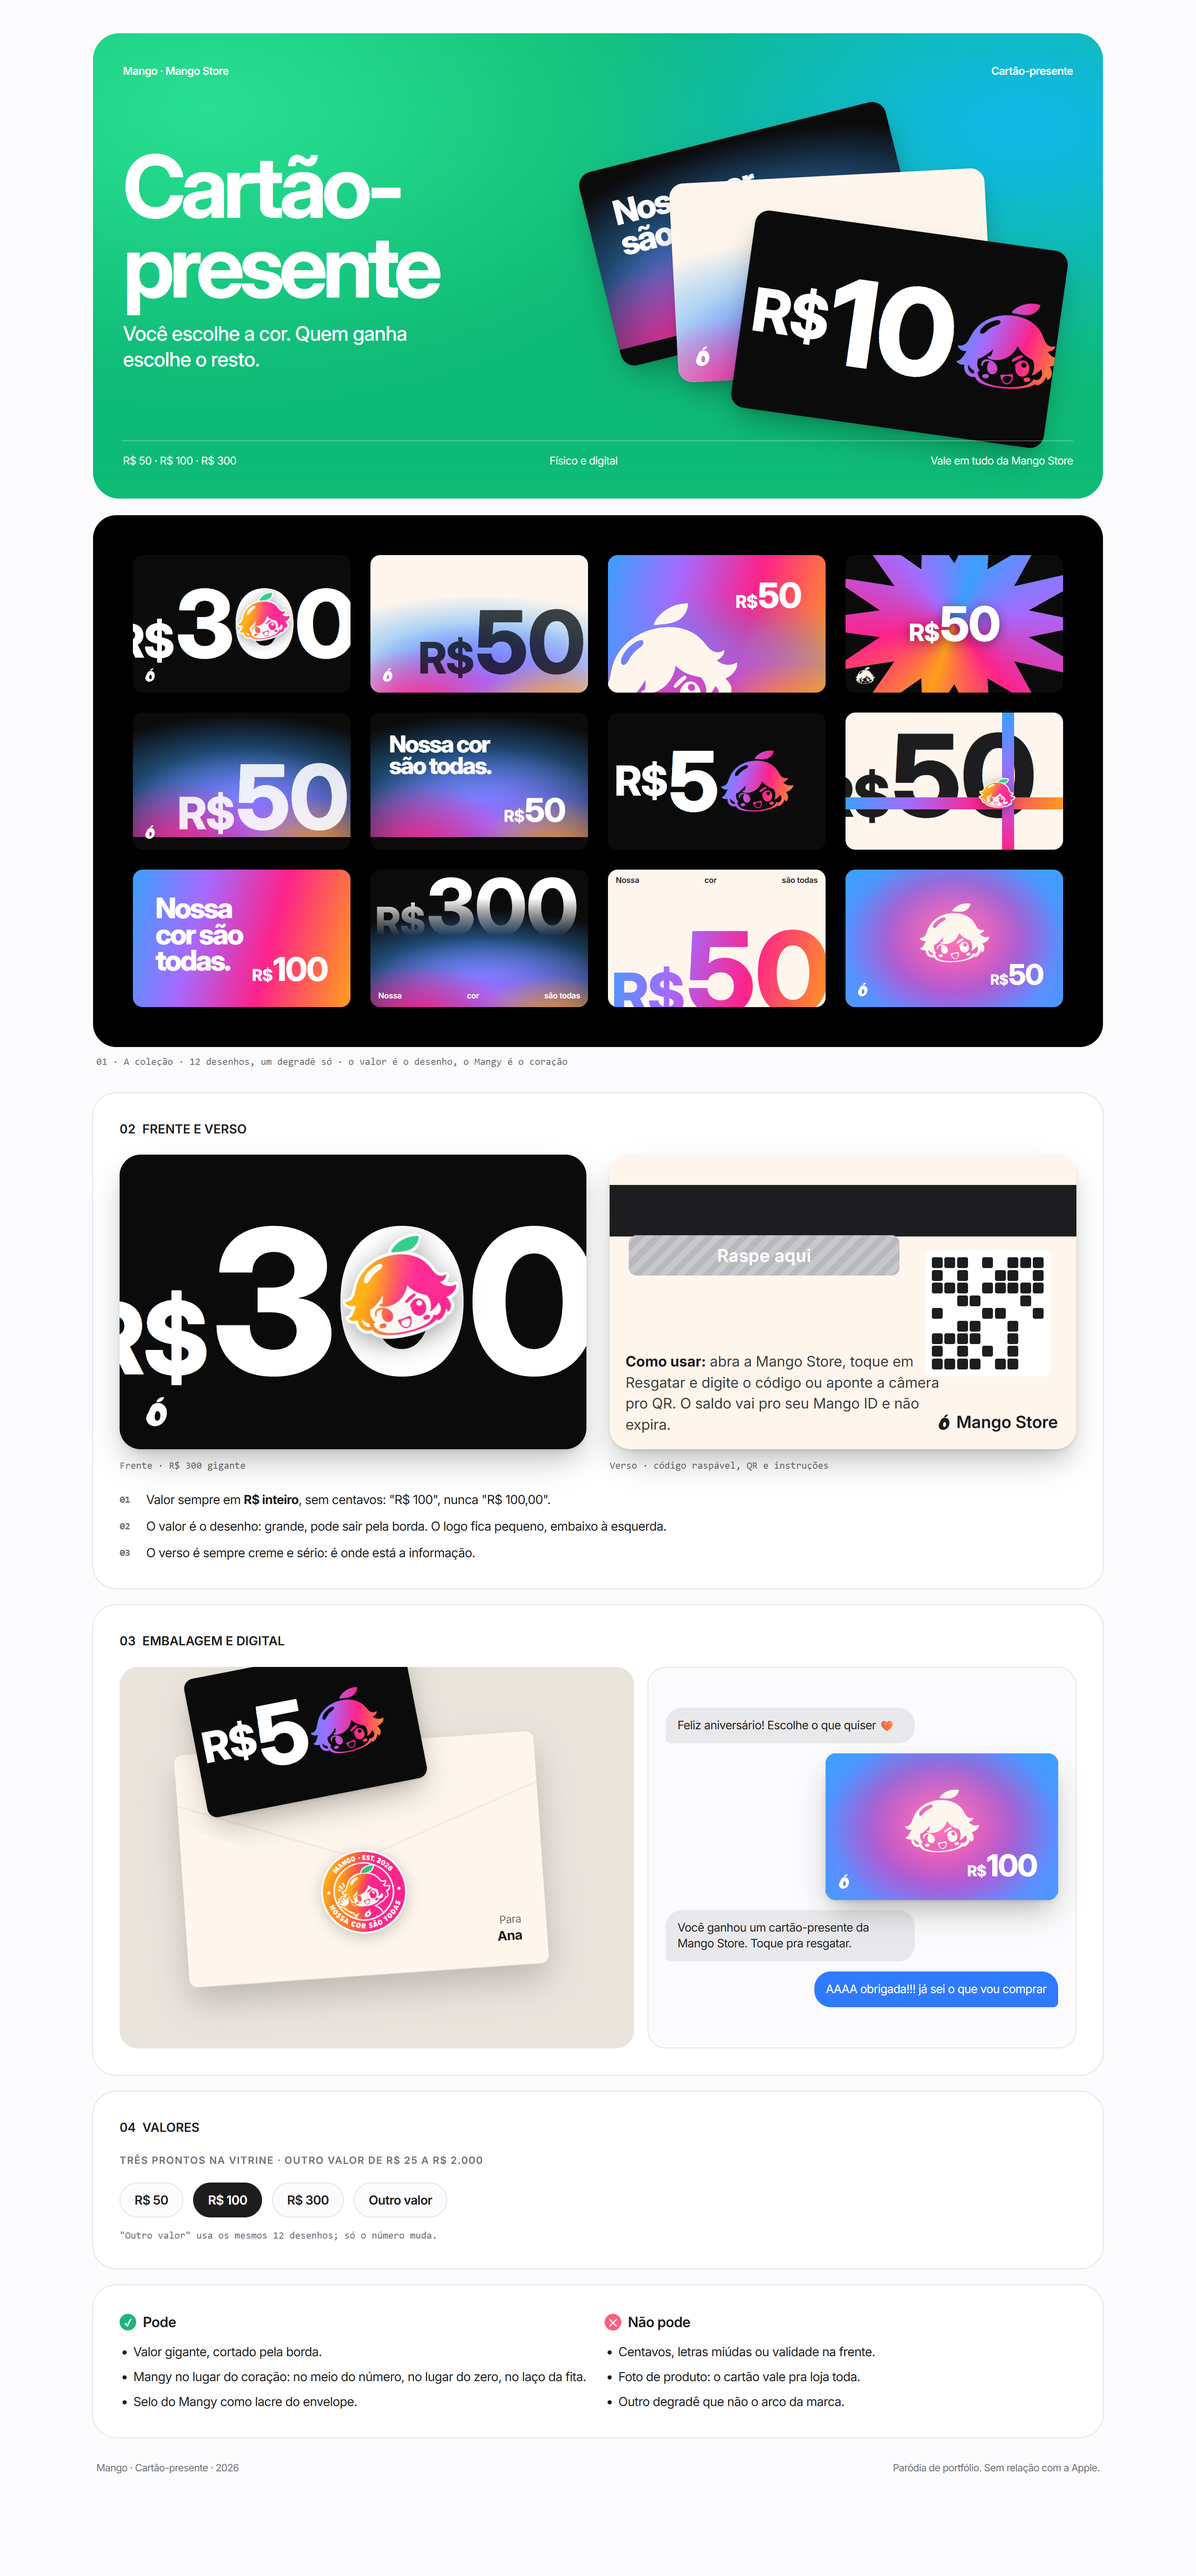
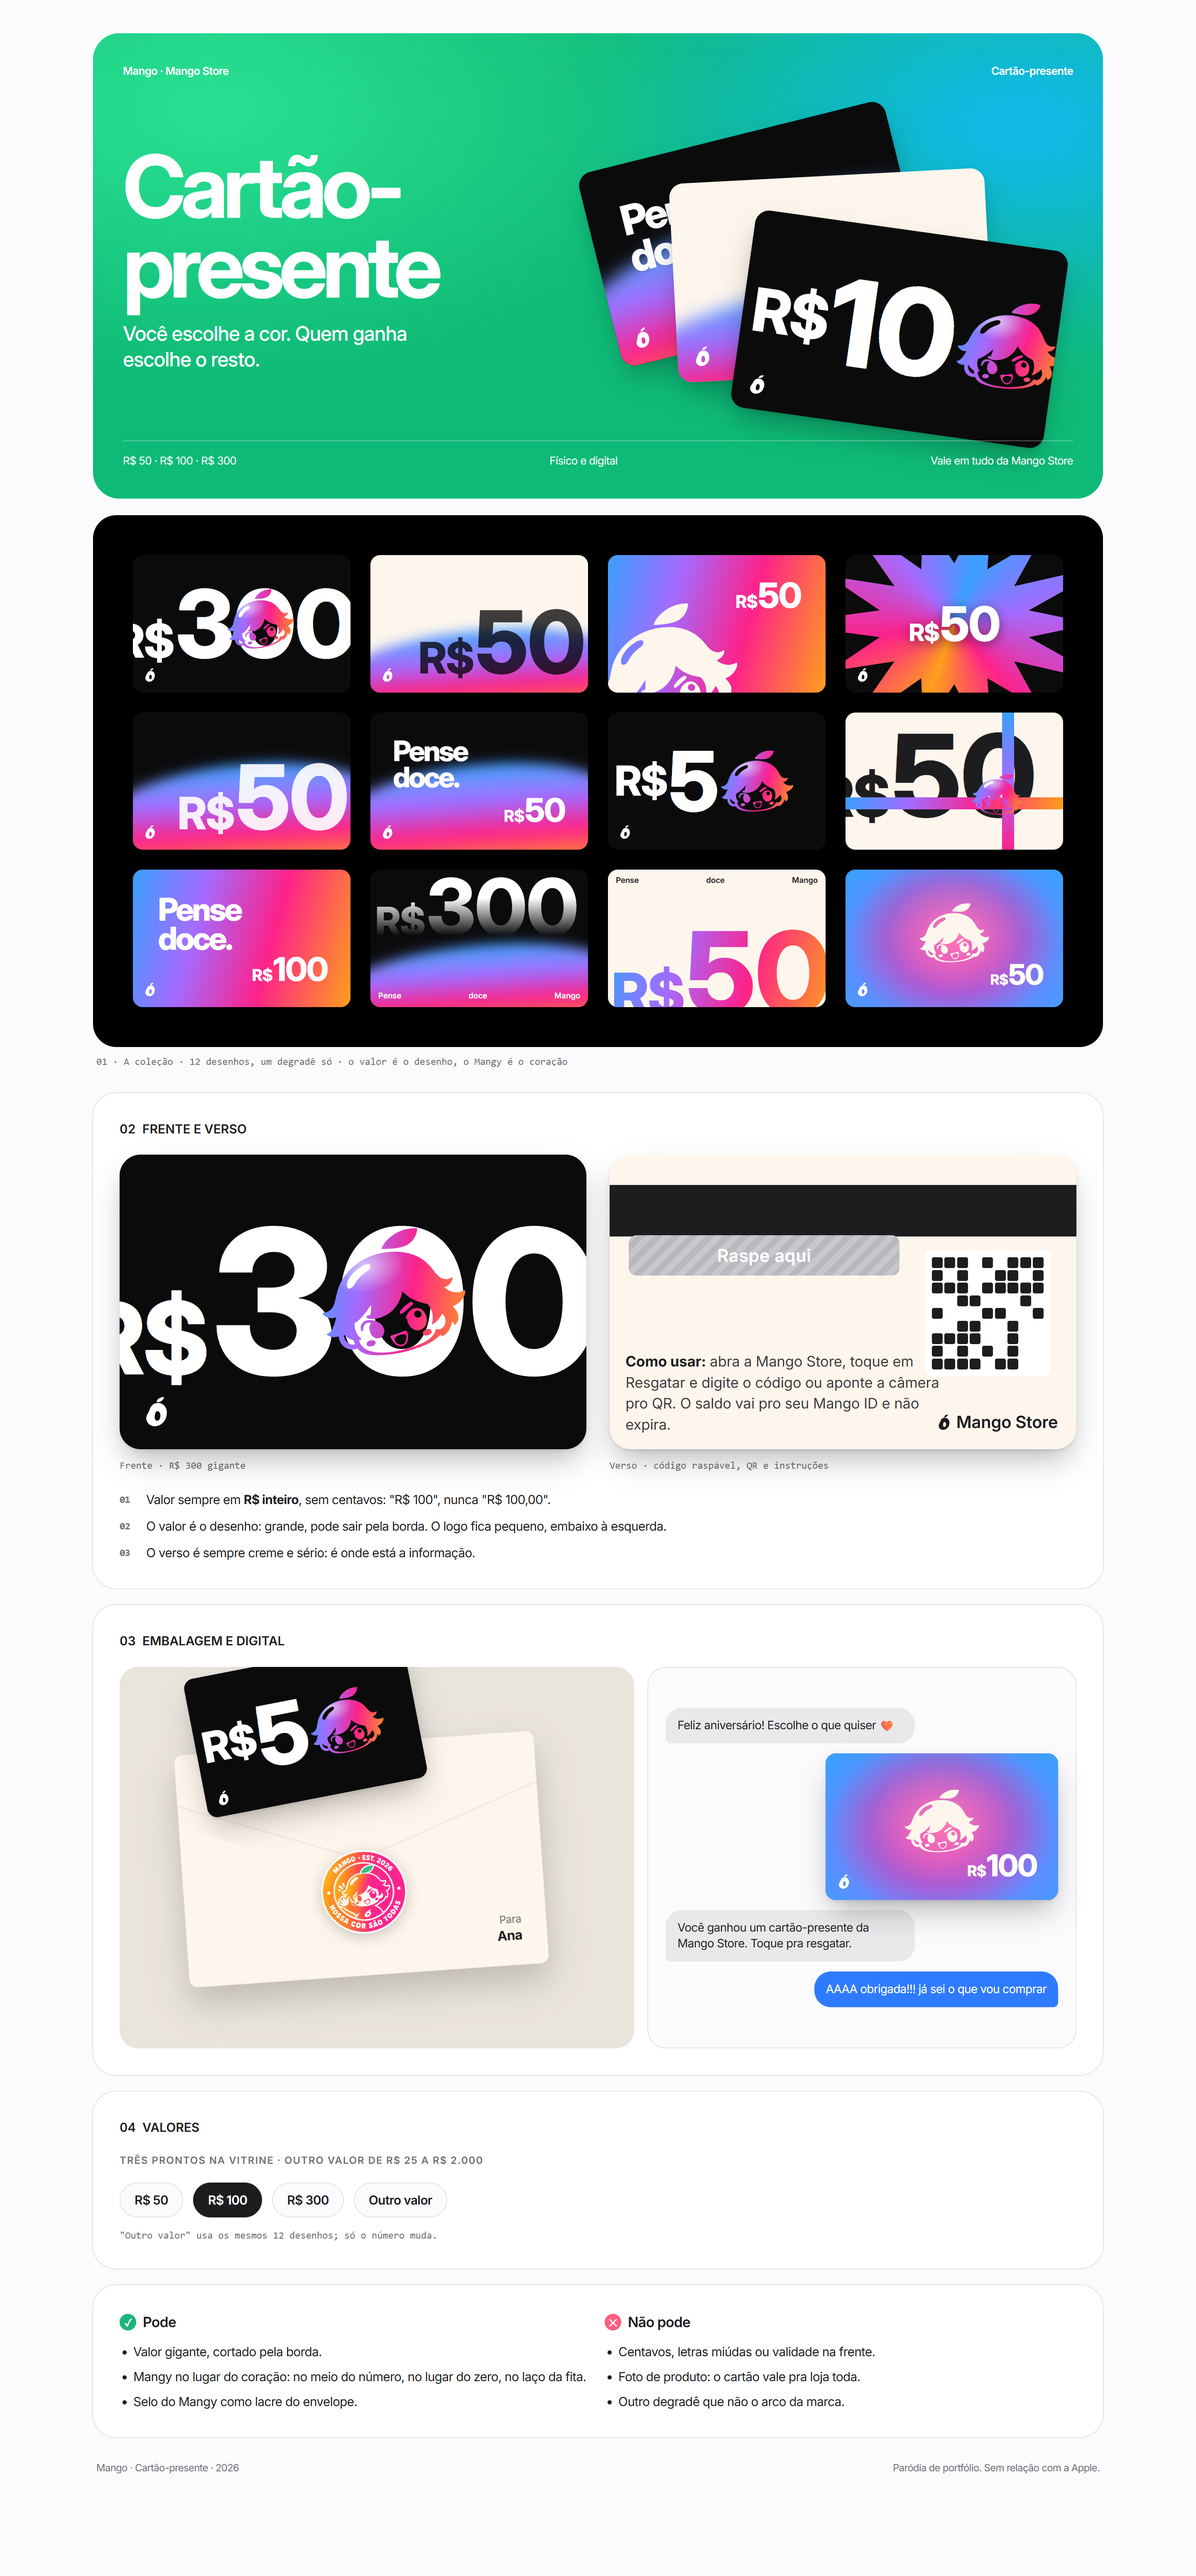
feat(marca): cartões com o slogan 'Pense doce.', onda limpa e Mangy com brilho; slogan registrado no MARCA.md

diff --git a/escolhas/marca/cartoes.html b/escolhas/marca/cartoes.html
@@ -24,13 +24,15 @@
   --onda:radial-gradient(60% 55% at 22% 108%,#fd228a,transparent 72%),radial-gradient(55% 50% at 85% 112%,#ff9f1c,transparent 70%),
          radial-gradient(90% 60% at 55% 92%,#a46bff,transparent 72%),radial-gradient(120% 70% at 50% 78%,#3aa0ff,transparent 70%);
 }
-.onda{inset:0;background:var(--onda)}
-.onda.alta{transform:translateY(-22%) scaleY(1.25)}
+.onda{left:-15%;right:-15%;top:38%;bottom:-30%;border-radius:55% 45% 0 0/42% 34% 0 0;transform:rotate(-4deg);filter:blur(.55em);
+  background:linear-gradient(180deg,#3aa0ff 0%,#7b8cff 16%,#a46bff 30%,#fd228a 55%,#ff9f1c 85%)}
+.onda.alta{top:22%}
+.onda.baixa{top:55%}
 .marquinha{left:1em;bottom:.95em;width:1.15em;aspect-ratio:100/116;background:currentColor;-webkit-mask:url(/mango.svg) center/contain no-repeat;mask:url(/mango.svg) center/contain no-repeat}
 .v{white-space:nowrap}
 .v small{font-size:.5em;letter-spacing:-.03em;margin-right:.04em}
 .preenche{background:var(--arco);-webkit-background-clip:text;background-clip:text;color:transparent}
-.cabeca{aspect-ratio:466/394;background:var(--arco);-webkit-mask:url(mascote/mono-cabeca.webp) center/contain no-repeat;mask:url(mascote/mono-cabeca.webp) center/contain no-repeat}
+.cabeca{aspect-ratio:466/394;background:radial-gradient(38% 30% at 34% 26%,#fff9,transparent 70%),var(--arco);-webkit-mask:url(mascote/mono-cabeca.webp) center/contain no-repeat;mask:url(mascote/mono-cabeca.webp) center/contain no-repeat}
 .cabeca.creme{background:#fef6ec}
 .adesivo-c{filter:drop-shadow(0 .25em .5em rgba(0,0,0,.35))}
 .frase{font-size:2.15em;line-height:.92;letter-spacing:-.055em}
@@ -212,29 +214,29 @@ const head = (cls, st) => `<span class="cabeca ${cls}" style="${st}"></span>`;
 const stk = st => `<img class="adesivo-c" src="mascote/expressions-1.webp" alt="" style="${st}">`;
 const DESENHOS = [
   // 1 valor gigante no preto, Mangy no meio dos números
-  ['', v => `<span class="v" style="left:-.2em;top:50%;transform:translateY(-50%);font-size:8.6em">${RS(v)}</span>${stk('left:9.4em;top:3.4em;width:5.2em;transform:rotate(-8deg)')}<span class="marquinha"></span>`],
+  ['', v => `<span class="v" style="left:-.2em;top:50%;transform:translateY(-50%);font-size:8.6em">${RS(v)}</span>${head('', 'left:8.6em;top:3.3em;width:6.2em;transform:rotate(-8deg);filter:drop-shadow(0 .3em .6em #0008)')}<span class="marquinha"></span>`],
   // 2 creme com a onda subindo por trás do número
-  ['creme', v => `<span class="onda"></span><span class="v" style="left:.55em;top:.6em;font-size:8em;color:rgba(29,29,31,.82);mix-blend-mode:multiply">${RS(v)}</span><span class="marquinha" style="color:#fff"></span>`],
+  ['creme', v => `<span class="onda baixa"></span><span class="v" style="left:.55em;top:.6em;font-size:8em;color:rgba(29,29,31,.85);mix-blend-mode:multiply">${RS(v)}</span><span class="marquinha" style="color:#fff"></span>`],
   // 3 cabeça gigante saindo pelo canto
-  ['cheio', v => `<span class="onda" style="opacity:.6"></span>${head('creme', 'left:-1.2em;bottom:-3.2em;width:13em;transform:rotate(-10deg)')}<span class="v" style="right:.7em;top:.75em;font-size:3.2em">${RS(v)}</span>`],
+  ['cheio', v => `${head('creme', 'left:-1.2em;bottom:-3.2em;width:13em;transform:rotate(-10deg);background:#fef6ec')}<span class="v" style="right:.7em;top:.75em;font-size:3.2em">${RS(v)}</span>`],
   // 4 explosão
-  ['', v => `<span class="explosao"></span><span class="v" style="left:50%;top:50%;transform:translate(-50%,-50%);font-size:4.4em;text-shadow:0 .05em .25em #0007">${RS(v)}</span>${head('creme', 'left:.9em;bottom:.8em;width:1.8em')}`],
+  ['', v => `<span class="explosao"></span><span class="v" style="left:50%;top:50%;transform:translate(-50%,-50%);font-size:4.4em;text-shadow:0 .05em .25em #0007">${RS(v)}</span><span class="marquinha"></span>`],
   // 5 número claro afundando na onda
-  ['', v => `<span class="onda alta"></span><span class="v" style="left:.5em;top:.55em;font-size:8.2em;color:rgba(255,255,255,.88)">${RS(v)}</span><span class="marquinha"></span>`],
+  ['', v => `<span class="onda"></span><span class="v" style="left:.5em;top:.55em;font-size:8.2em;color:rgba(255,255,255,.9)">${RS(v)}</span><span class="marquinha"></span>`],
   // 6 slogan + onda
-  ['', v => `<span class="onda alta"></span><span class="frase" style="left:.8em;top:.9em">Nossa cor<br>são todas.</span><span class="v" style="right:.7em;bottom:.8em;font-size:3em">${RS(v)}</span>`],
+  ['', v => `<span class="onda"></span><span class="frase" style="left:.8em;top:.9em;font-size:2.6em">Pense<br>doce.</span><span class="v" style="right:.7em;bottom:.8em;font-size:3em">${RS(v)}</span><span class="marquinha"></span>`],
   // 7 o Mangy é o zero
-  ['', v => `<span class="v" style="left:.08em;top:50%;transform:translateY(-50%);font-size:7.6em;display:flex;align-items:center">${RS(String(v).slice(0, -1))}<span class="cabeca" style="position:static;height:.74em;margin-left:.03em"></span></span>`],
+  ['', v => `<span class="v" style="left:.08em;top:50%;transform:translateY(-50%);font-size:7.6em;display:flex;align-items:center">${RS(String(v).slice(0, -1))}<span class="cabeca" style="position:static;height:.74em;margin-left:.03em"></span></span><span class="marquinha"></span>`],
   // 8 presente: fita cruzada, Mangy no laço
-  ['creme', v => `<span class="v" style="left:-.25em;top:.15em;font-size:10.5em">${RS(v)}</span><span class="fita-h"></span><span class="fita-v"></span>${stk('left:12.3em;top:5.9em;width:3.4em;transform:rotate(10deg)')}`],
+  ['creme', v => `<span class="v" style="left:-.25em;top:.15em;font-size:10.5em">${RS(v)}</span><span class="fita-h"></span><span class="fita-v"></span>${head('', 'left:11.7em;top:5.5em;width:4.6em;transform:rotate(10deg);filter:drop-shadow(0 .2em .4em #0005)')}`],
   // 9 slogan no degradê cheio
-  ['cheio', v => `<span class="frase" style="left:.8em;top:.9em;font-size:2.6em">Nossa<br>cor são<br>todas.</span><span class="v" style="right:.7em;bottom:.75em;font-size:3em">${RS(v)}</span>`],
-  // 10 número que some na onda + rodapé espaçado
-  ['', v => `<span class="onda"></span><span class="v" style="left:.06em;top:.08em;font-size:7.2em;background:linear-gradient(180deg,#fff 35%,#fff0 95%);-webkit-background-clip:text;background-clip:text;color:transparent">${RS(v)}</span><span class="espaco" style="top:auto;bottom:.9em"><span>Nossa</span><span>cor</span><span>são todas</span></span>`],
-  // 11 creme, palavras no topo, número em degradê saindo por baixo
-  ['creme', v => `<span class="espaco"><span>Nossa</span><span>cor</span><span>são todas</span></span><span class="v preenche" style="left:.03em;bottom:-.1em;font-size:10.5em">${RS(v)}</span>`],
+  ['cheio', v => `<span class="frase" style="left:.8em;top:.8em;font-size:2.9em">Pense<br>doce.</span><span class="v" style="right:.7em;bottom:.75em;font-size:3em">${RS(v)}</span><span class="marquinha"></span>`],
+  // 10 número que some na onda + slogan espaçado
+  ['', v => `<span class="onda baixa"></span><span class="v" style="left:.06em;top:.08em;font-size:7.2em;background:linear-gradient(180deg,#fff 35%,#fff0 95%);-webkit-background-clip:text;background-clip:text;color:transparent">${RS(v)}</span><span class="espaco" style="top:auto;bottom:.9em"><span>Pense</span><span>doce</span><span>Mango</span></span>`],
+  // 11 creme, slogan espaçado no topo, número em degradê saindo por baixo
+  ['creme', v => `<span class="espaco"><span>Pense</span><span>doce</span><span>Mango</span></span><span class="v preenche" style="left:.03em;bottom:-.1em;font-size:10.5em">${RS(v)}</span>`],
   // 12 aura com a cabeça brilhando
-  ['', v => `<span class="aura"></span>${head('creme', 'left:50%;top:46%;width:6.4em;transform:translate(-50%,-50%);filter:drop-shadow(0 0 .8em #fff8)')}<span class="v" style="right:.7em;bottom:.75em;font-size:2.6em">${RS(v)}</span><span class="marquinha"></span>`],
+  ['', v => `<span class="aura"></span>${head('creme', 'left:50%;top:46%;width:6.4em;transform:translate(-50%,-50%);background:#fef6ec;filter:drop-shadow(0 0 .8em #fff8)')}<span class="v" style="right:.7em;bottom:.75em;font-size:2.6em">${RS(v)}</span><span class="marquinha"></span>`],
 ];
 // valores como na referência: quase todos 50, alguns 300 e 100
 const VAL = [300, 50, 50, 50, 50, 50, 50, 50, 100, 300, 50, 50];

diff --git a/MARCA.md b/MARCA.md
@@ -138,6 +138,8 @@ Margem lateral `max(22px, calc((100vw - 1024px) / 2))`: conteúdo em até 1024 p
 
 ## 6. Tom de voz
 
+**Slogan (um só): "Pense doce."** Vai na assinatura, nos cartões-presente, nos selos e no fim das campanhas. "Nossa cor são todas" não é slogan: é o nome da regra das cores (seção 3) e, no máximo, frase de uma campanha sobre cor.
+
 **Regra:** páginas de produto contidas, microtextos com graça.
 
 **Páginas de produto e lançamento:** cara de Apple. Frases curtas, diretas, afirmativas. O trocadilho fica nos **nomes** (produto, chip, sabores) e em **no máximo uma frase de destaque por seção**, de preferência no título.
